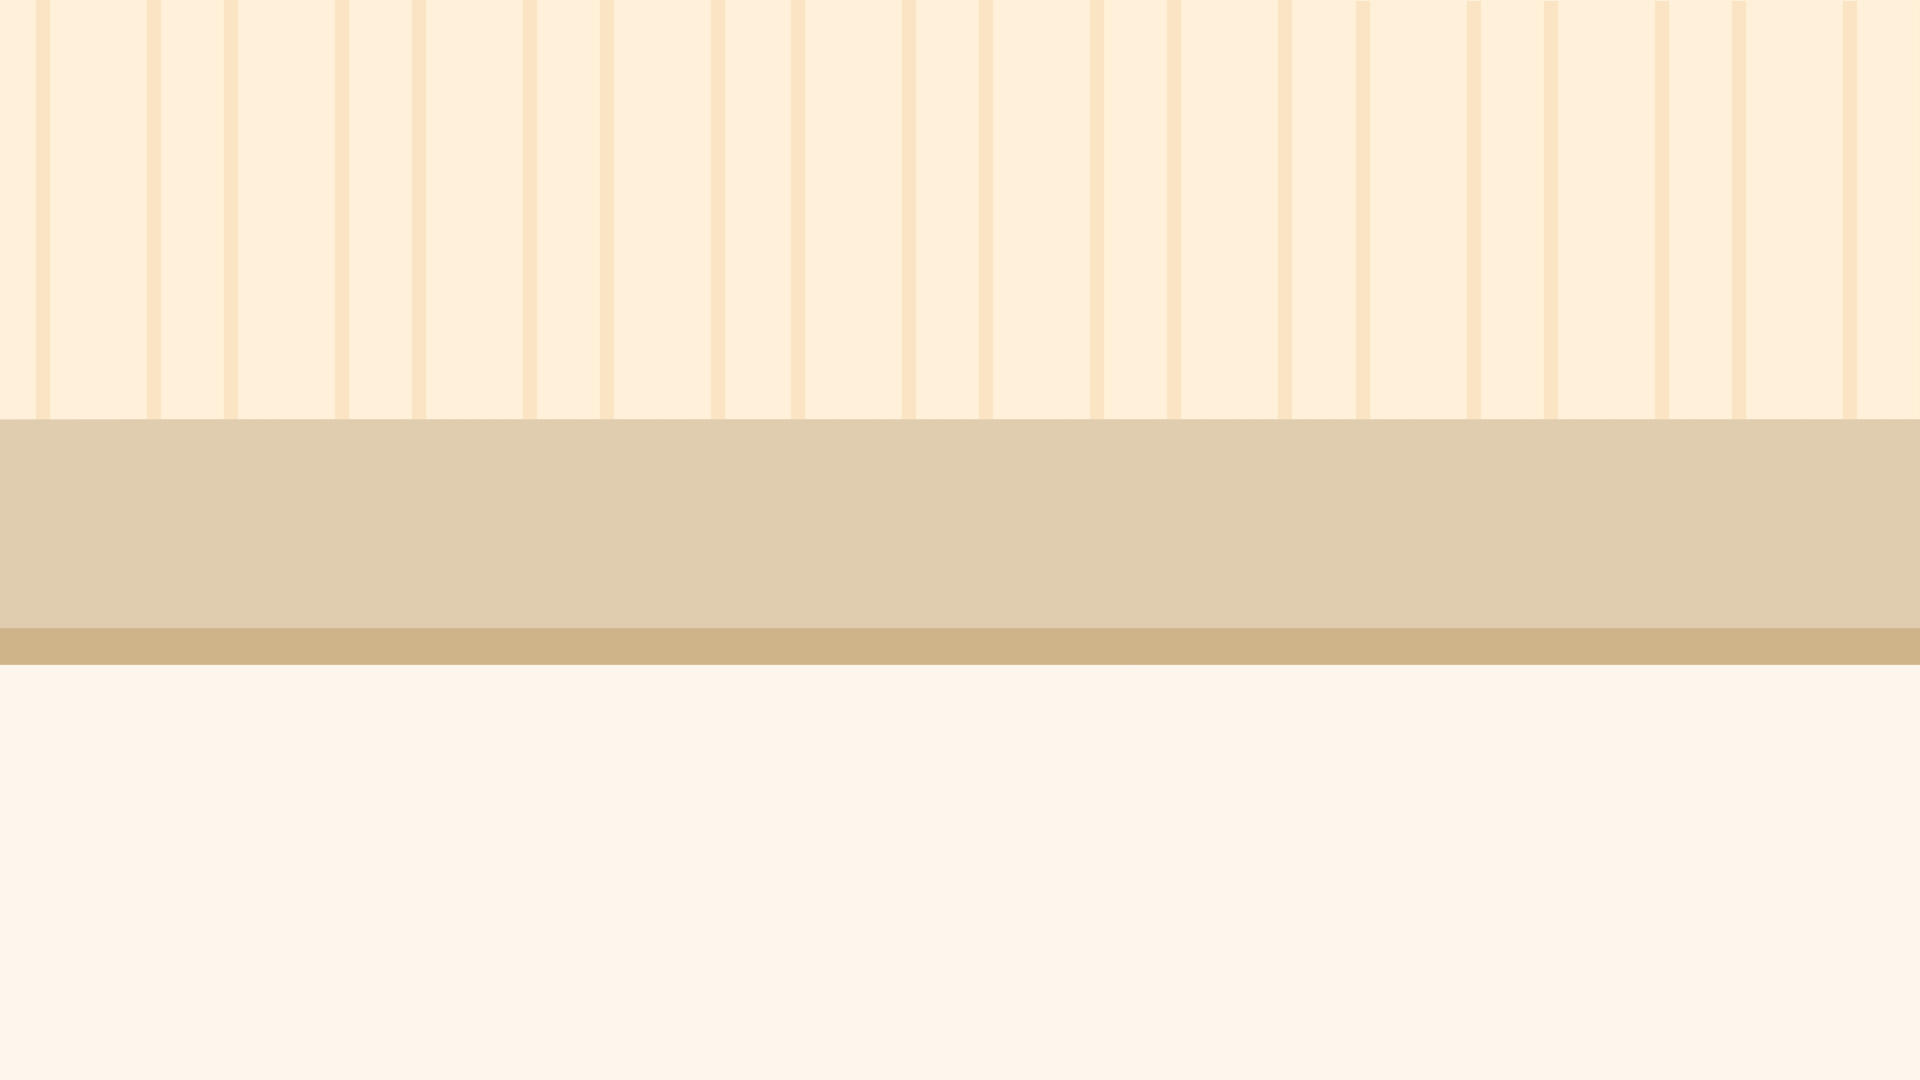
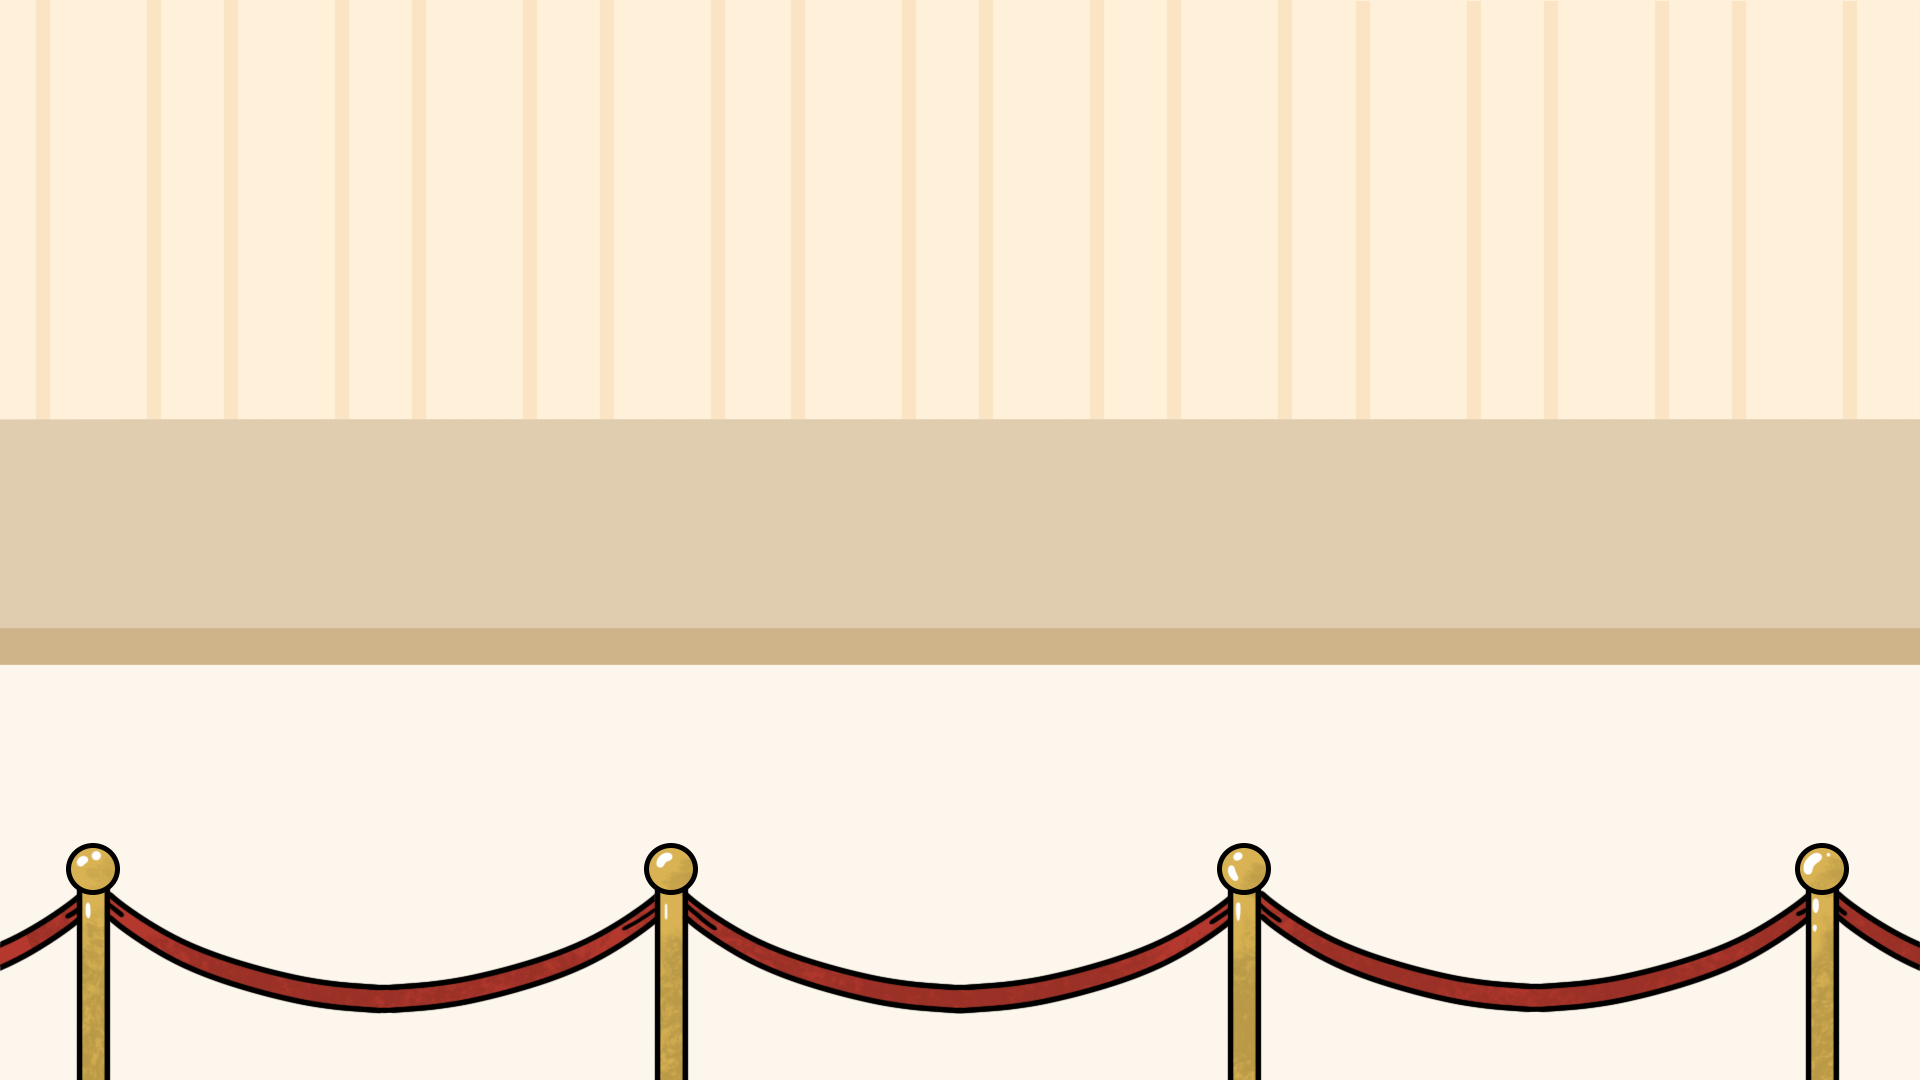
add image component and fence to backgroundImg

Changed region(s): [[0.0, 0.7639, 1.0, 1.0]]

diff --git a/src/components/pages/RoomOne.js b/src/components/pages/RoomOne.js
@@ -1,6 +1,7 @@
 import React from "react";
 import { useState } from "react";
 import Animal from "../Animal";
+import Image from "../Image";
 
 import "./roomOne.css";
 
@@ -47,23 +48,25 @@ const RoomOne = (props) => {
   ]);
 
   return (
-    <div className={siblingFade ? "sibling-fade" : "animalList"}>
-      {animalList.map((animal, i) => {
-        return (
-          <Animal
-            className={animal.className}
-            key={animal.id}
-            id={animal.id}
-            name={animal.name}
-            title={animal.title}
-            img={animal.img}
-            details={animal.details}
-            map={animal.map}
-            siblingFadeHandler={() => setSiblingFade(!siblingFade)}
-          />
-        );
-      })}
-    </div>
+    <>
+      <div className={siblingFade ? "sibling-fade" : "animalList"}>
+        {animalList.map((animal, i) => {
+          return (
+            <Animal
+              className={animal.className}
+              key={animal.id}
+              id={animal.id}
+              name={animal.name}
+              title={animal.title}
+              img={animal.img}
+              details={animal.details}
+              map={animal.map}
+              siblingFadeHandler={() => setSiblingFade(!siblingFade)}
+            />
+          );
+        })}
+      </div>
+    </>
   );
 };
 

diff --git a/src/components/Animal.js b/src/components/Animal.js
@@ -1,8 +1,7 @@
 import React, { useState } from "react";
 
-import "./animal.css";
-
 import DetailBox from "./DetailBox";
+import Image from "./Image";
 import Button from "./Button";
 
 const Animal = ({
@@ -26,7 +25,6 @@ const Animal = ({
     setShow(!show);
     siblingFadeHandler();
   }
-
   return (
     <div className={className}>
       <DetailBox
@@ -38,13 +36,13 @@ const Animal = ({
       >
         <Button onClick={() => handleClosingClick()}>close</Button>
       </DetailBox>
-      <img
-        id={id}
+      <Image
+        className={className}
         name={name}
-        src={img}
+        img={img}
         alt={alt}
         onClick={() => handleOpeningClick()}
-      ></img>
+      ></Image>
     </div>
   );
 };

diff --git a/src/components/image.css b/src/components/image.css
@@ -3,11 +3,17 @@
   max-width: 160px;
   margin-top: 250px;
 }
+.passengerPigeon img:hover {
+  cursor: pointer;
+}
 
 .seaMink img {
   width: 100%;
   max-width: 300px;
   margin-top: 200px;
+}
+.seaMink img:hover {
+  cursor: pointer;
 }
 
 .tecopaPupfish img {
@@ -15,13 +21,15 @@
   max-width: 180px;
   margin-top: 100px;
 }
+.tecopaPupfish img:hover {
+  cursor: pointer;
+}
 
 .dodo img {
   width: 100%;
   max-width: 180px;
   margin-top: 200px;
 }
-
-img:hover {
+.dodo img:hover {
   cursor: pointer;
 }

diff --git a/src/components/Image.js b/src/components/Image.js
@@ -1,0 +1,28 @@
+import React from "react";
+
+import "./image.css";
+
+const Image = ({
+  className,
+  name,
+  img,
+  src,
+  alt,
+  onClick = function () {},
+  children,
+}) => {
+  console.log(src);
+  return (
+    <img
+      className={className}
+      name={name}
+      src={img}
+      alt={alt}
+      onClick={onClick}
+    >
+      {children}
+    </img>
+  );
+};
+
+export default Image;

diff --git a/src/components/DetailBox.js b/src/components/DetailBox.js
@@ -12,7 +12,7 @@ const DetailBox = ({ show, animalName, mapImg, alt, details, children }) => {
     textTransform: "uppercase",
     fontWeight: "bold",
     fontSize: "30px",
-    paddingTop: "10px",
+    paddingTop: "30px",
     color: randomColor(),
     fontFamily: "Ribeye Marrow",
   };

diff --git a/src/components/detailBox.css b/src/components/detailBox.css
@@ -24,6 +24,7 @@
 }
 
 .display-none {
+  opacity: 0;
   display: none;
 }
 
